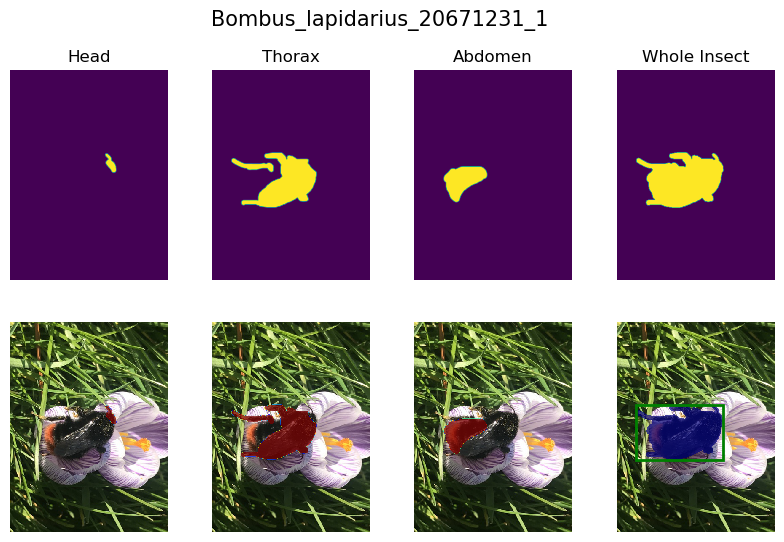
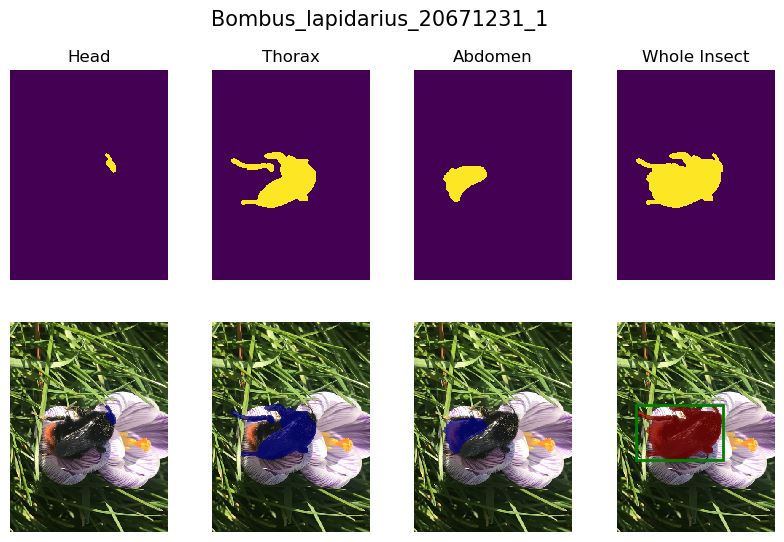
Binary masks (no smooth edges) and image closing.

diff --git a/beexplainable/utils/annot_computers.py b/beexplainable/utils/annot_computers.py
@@ -7,6 +7,7 @@ sys.path.insert(1, '../../label_studio_converter')
 import numpy as np
 from typing import Tuple, List
 from skimage.measure import regionprops
+from scipy.ndimage.morphology import binary_closing
 from label_studio_converter.brush import decode_rle
 
 def rle_to_matrix(rle_arr: np.ndarray, dims: Tuple[int, int]) -> np.ndarray:
@@ -24,10 +25,23 @@ def rle_to_matrix(rle_arr: np.ndarray, dims: Tuple[int, int]) -> np.ndarray:
     # Note: the decode_rle function in brush.py needs RLEs as ints
     mask = decode_rle(list(map(int, rle_arr))) # 1d array
     # h, w, 4 channels for colors and alpha
-    mask = np.reshape(mask, (dims[0], dims[1], 4))
+    # 1st channel is enough (it is only a gray image)
+    mask = np.reshape(mask, (dims[0], dims[1], 4))[:, :, 0]
 
-    # 1st channel is enough (it is only a matrix of 0s and 1s)
-    return mask[:, :, 0]
+    # Right now, mask is not binary, since decode_rle smoothens the boundaries out.
+    # This results not only pixel values of 0 and 255, but also values in-between.
+    # We map all values above threshold to 1 (part of mask) and those below to 0.
+    threshold = 50
+    for i in range(mask.shape[0]):
+        for j in range(mask.shape[1]):
+            mask[i, j] = 0 if mask[i, j] < threshold else 1
+
+    # Sometimes small pixel regions were not brushed over my the annotators,
+    # although they are an inner part of the segment.
+    # We correct this through the process of closing (dilation + erosion).
+    mask = binary_closing(mask, iterations = 3).astype(np.uint8)
+
+    return mask
 
 def union_of_masks(masks: List[Tuple[str, np.ndarray]]) -> np.ndarray:
     """Computes the union (logical OR) of the matrices in **masks**. \

diff --git a/scripts/visualize_masks_bbox.py b/scripts/visualize_masks_bbox.py
@@ -23,7 +23,7 @@ BEES_PATH = '../../../data/data_lstudio/Bees_Christian/'
 images_dict = mr.metafile_to_dict(IMAGES_PATH)
 
 # Pick an example image (ids start from 1)
-im_id = 300
+im_id = 300 # 10, 100, 300
 
 # Find file name in the dictionary and create path to image
 im_name = images_dict[str(im_id)]
@@ -64,15 +64,17 @@ fig.suptitle(indiv_name, fontsize = 15)
 for i in range(len(masks)):
     # Plot white mask on black background
     plt.subplot(2, 4, i+1)
-    plt.imshow(masks[i][1])
+    plt.imshow(masks[i][1], interpolation='none')
     plt.title(masks[i][0])
     plt.axis('off')
 
     # Plot mask overlaid on image
     masked = np.ma.masked_where(masks[i][1] == 0, masks[i][1])
     plt.subplot(2, 4, i+5)
+    # Use interp. None to avoid colored boundary pixels
     plt.imshow(im, interpolation='none')
-    plt.imshow(masked, 'jet', interpolation='none', alpha=0.7)
+    plt.imshow(masked, 'jet_r' if i == len(masks)-1 else 'jet',
+               interpolation='none', alpha=0.7)
     if i == len(masks)-1:
         plt.gca().add_patch(Rectangle((xmin, ymin), w, h,
                                       edgecolor='green', facecolor='none', lw=2))

diff --git a/README.md b/README.md
@@ -49,11 +49,19 @@ was used. Every image is accompanied by three part annotations:
 - *Abdomen* - lower body including needle, if present
 
 The picture below shows the segmentation masks - binary and overlaid - 
-in the case of an *Osmia bicornis*. The mask of the whole object has been 
-computed by means of logical union of the part masks. From the object mask, 
-the bounding box can also be easily derived 
-(see [annot_computer.py](beexplainable/utils/annot_computers.py)). 
-More examples can be found [here](figures/masks_bboxes). 
+in the case of an *Osmia bicornis*. More examples can be found [here](figures/masks_bboxes). 
+The mask of the whole object has been 
+computed by means of logical union of the part masks. Note that it sometimes
+occured that small pixel patches from within the part segment were not 
+brushed over by the annotator. This was corrected through a morphological 
+process called *closing*, which is *dilation* followed by *erosion*.
+
+From the object mask, the bounding box can also be easily derived 
+(see [annot_computer.py](beexplainable/utils/annot_computers.py)). The 
+convention agreed upon here for storing the bounding box coordinates is 
+the same as in the [CUB200 dataset](figures/Black_Footed_Albatross_0002_55_bbox.jpg): 
+`(x_min, y_min, width, height)`.
+
 The *xml* file to recreate the annotation task in Label Studio can be 
 downloaded from ... (*Link zum eigenen LS repo*).
 
